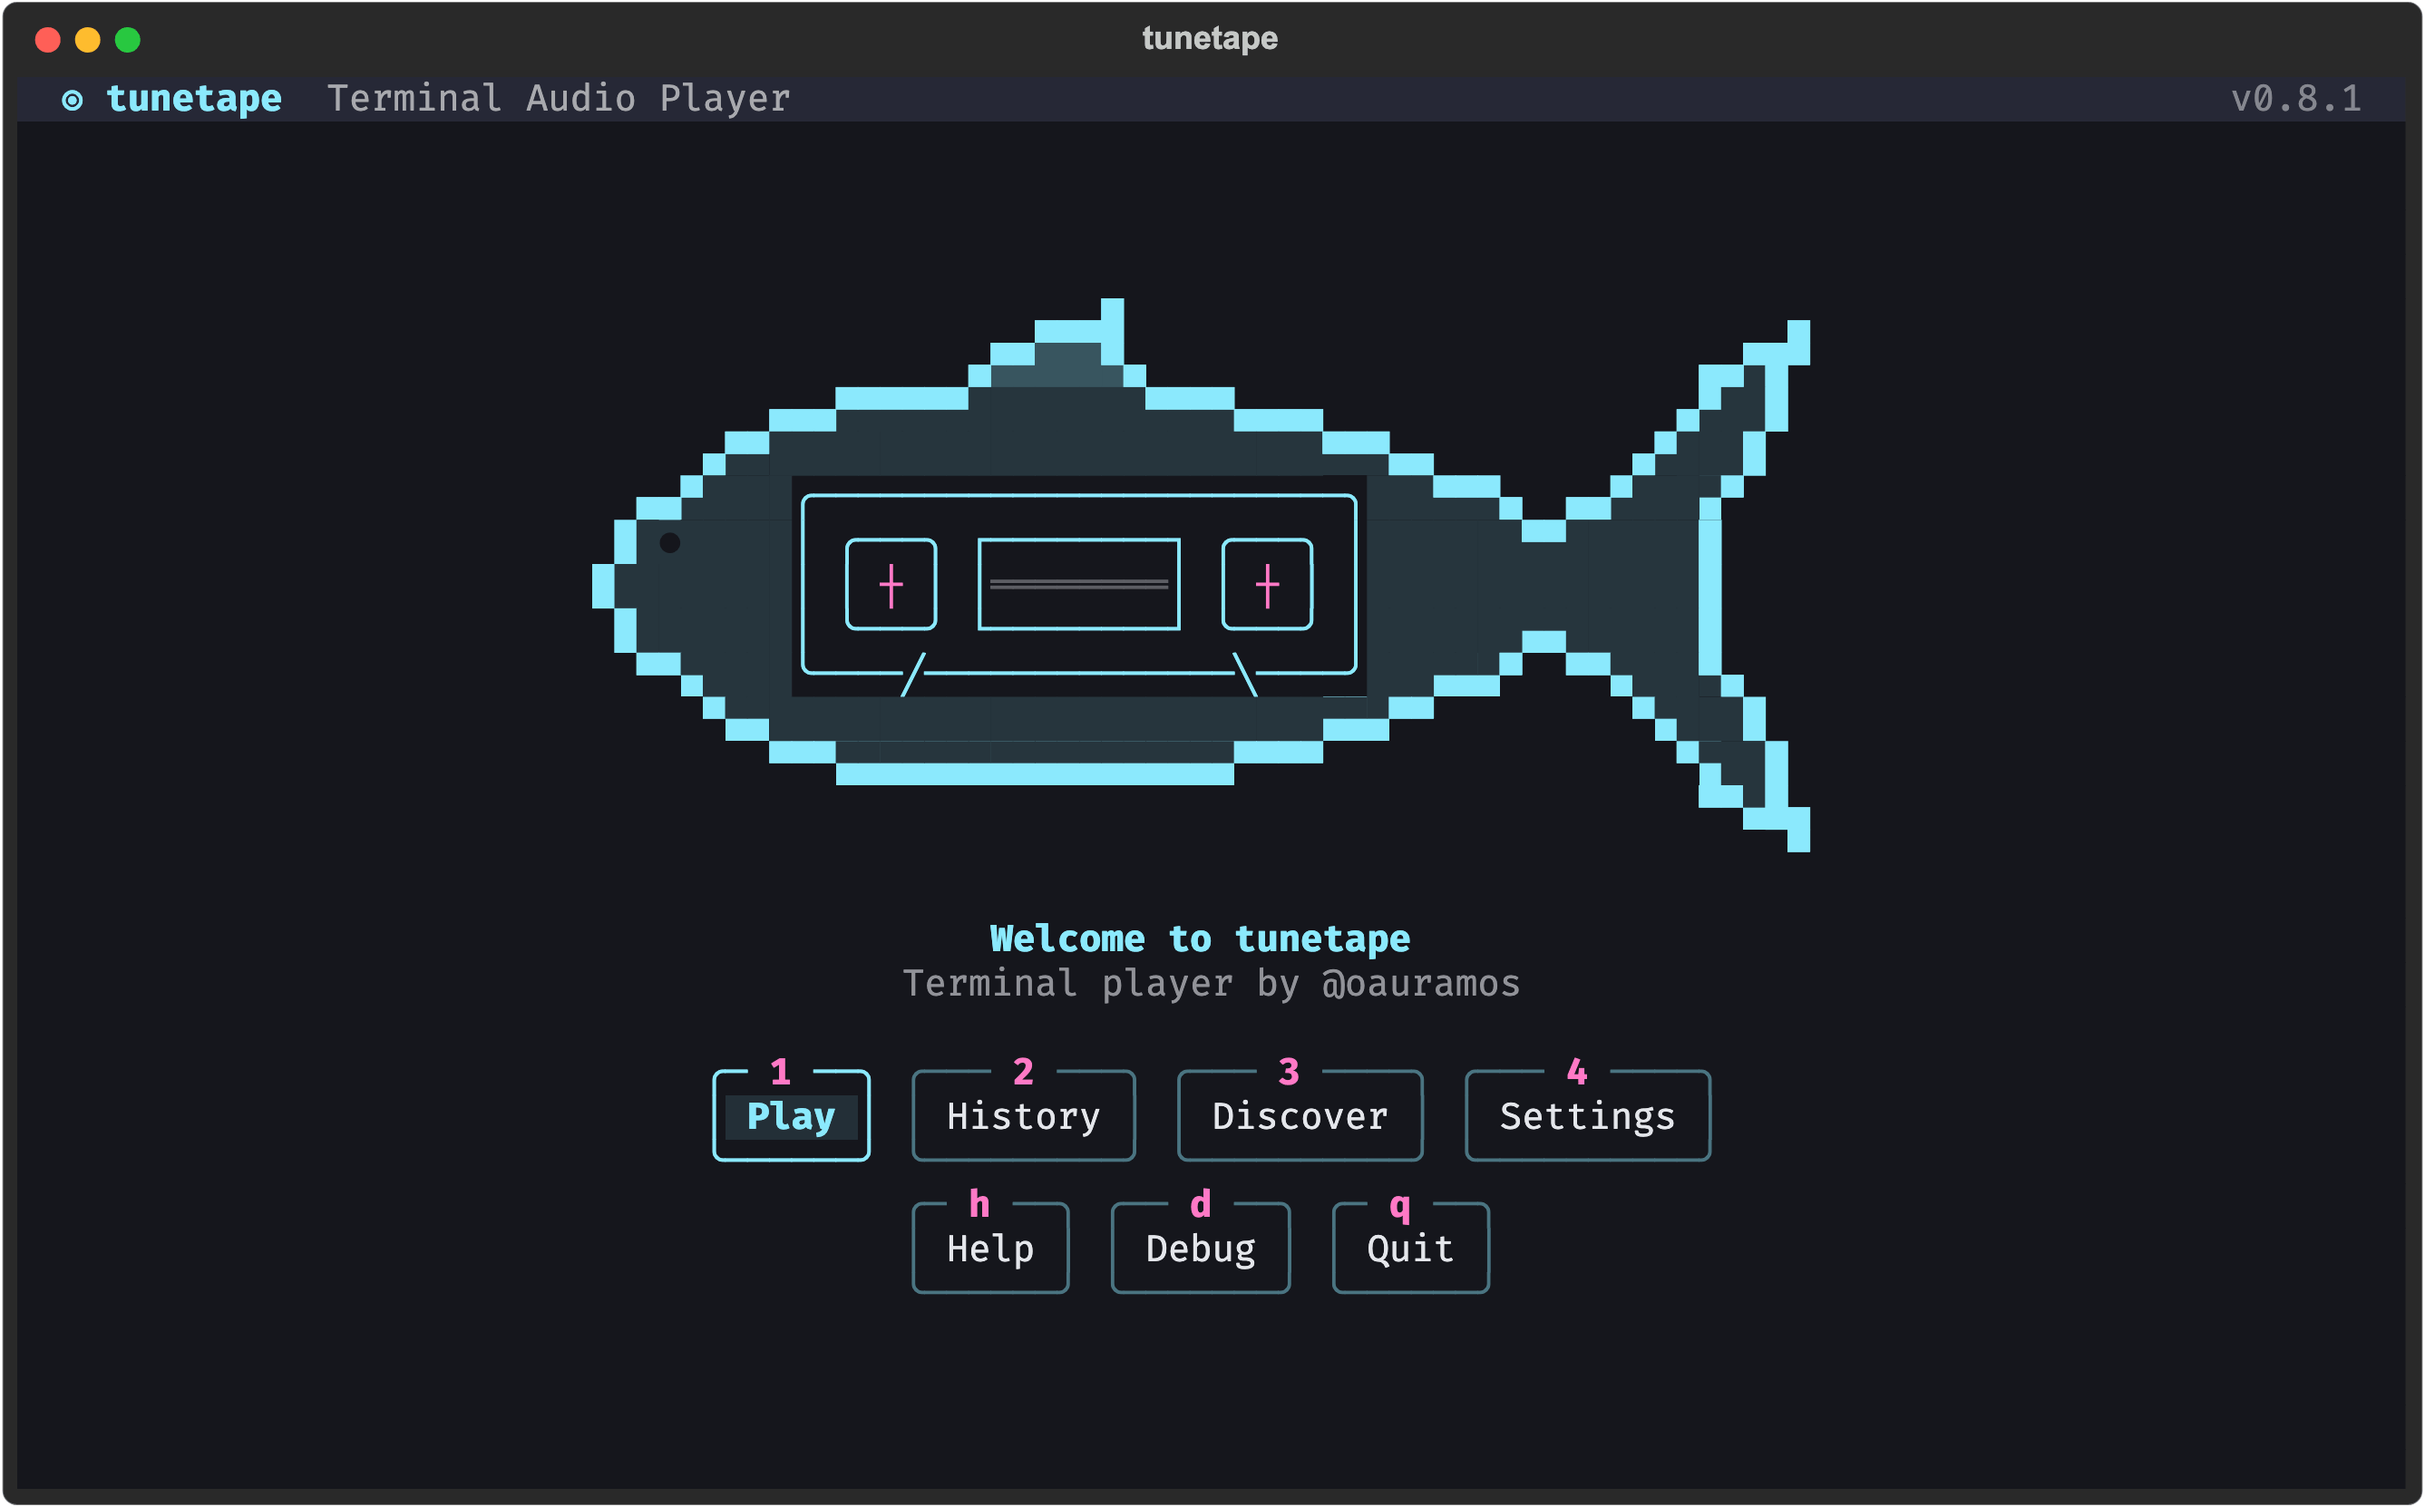
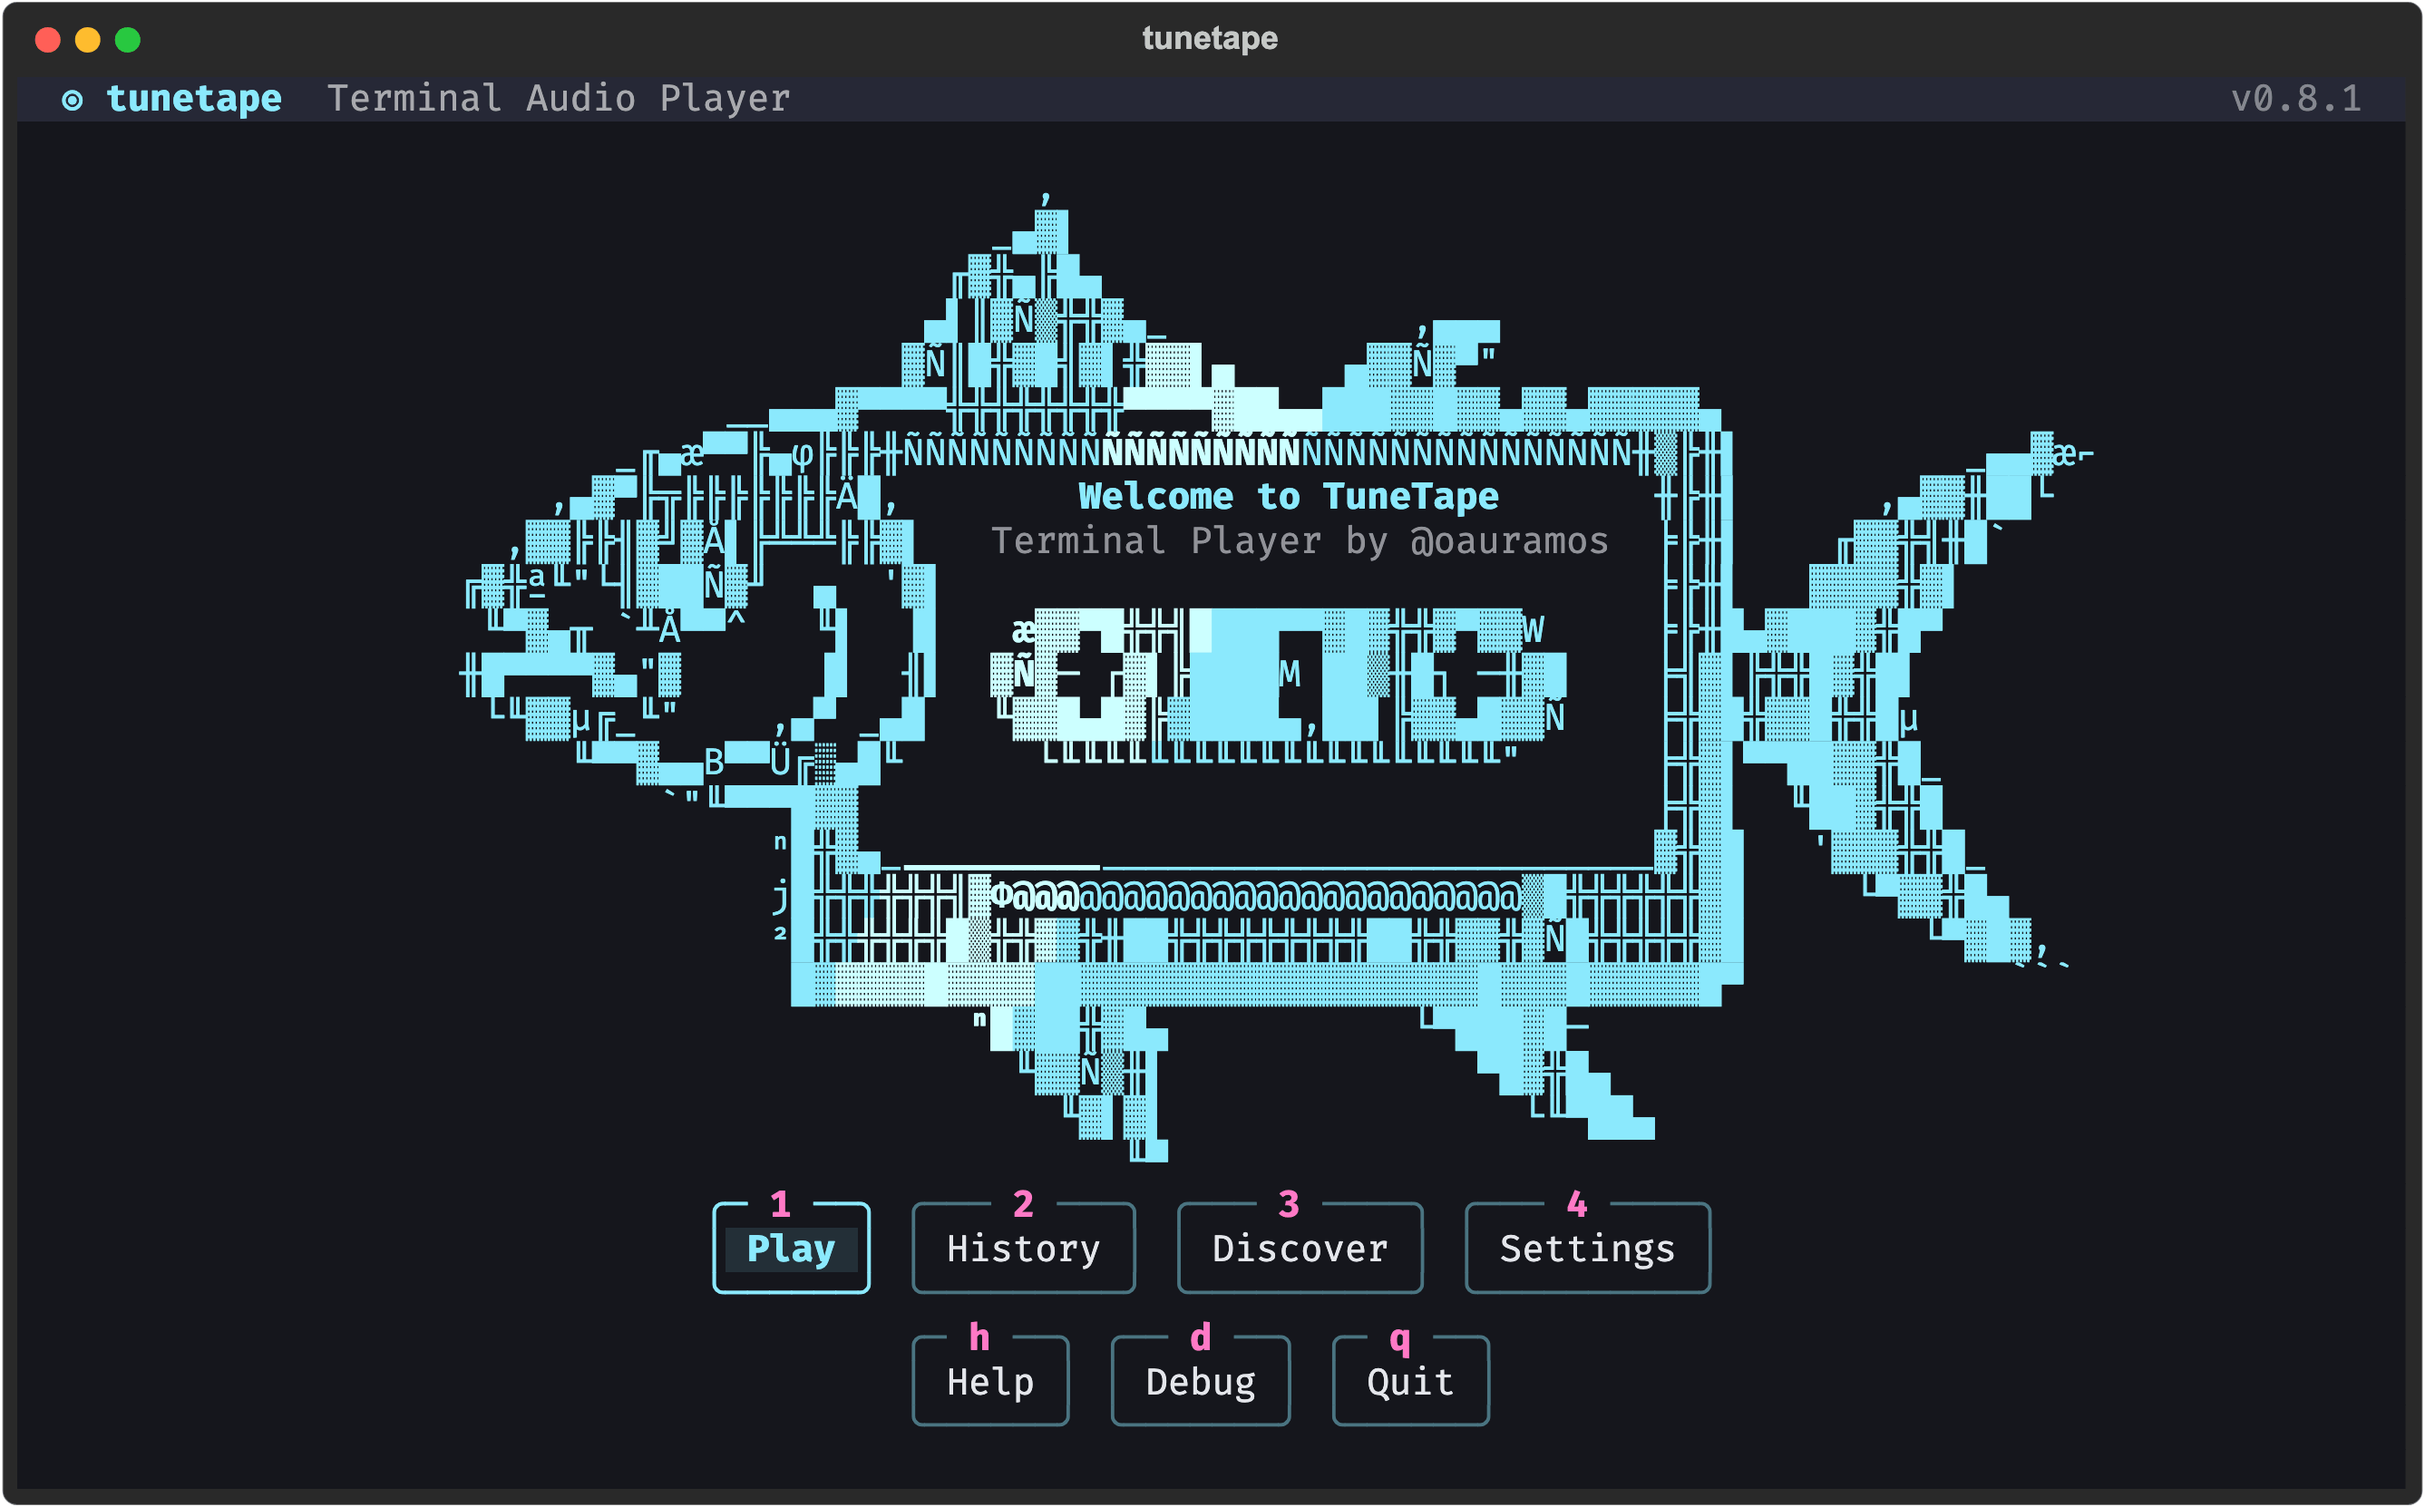
Greet with the original ASCII tuna on the welcome screen
The menu shows the hand-drawn ASCII tuna from the Rich interface again,
with "Welcome to TuneTape" in the cassette's label window and the diagonal
shine sweeping across it. It needs 85 x 30; smaller terminals keep the
pixel tuna with the title underneath (MenuScreen breakpoints pick which).
The pixel tuna stays on the player and loading screens.

Changed region(s): [[0.1862, 0.1227, 0.8691, 0.8592], [0.3725, 0.8899, 0.6208, 0.9513]]

diff --git a/tunetape/art.py b/tunetape/art.py
@@ -1,10 +1,14 @@
 """The tunetape look: the Textual theme and the tuna + tape mascot.
 
-tunetape = tuna + tape, so the mascot is a pixel-art tuna carrying a cassette.
-The fish is drawn two pixels per cell with half blocks; in the grids below "."
-is empty, "o" outline, "b" body and "f" fin. The grids are the source of truth
-and are edited by hand. The small tuna carries a shorter tape and stands in
-when the large one does not fit.
+tunetape = tuna + tape, so the mascot is a tuna carrying a cassette. It comes
+in two drawings:
+
+* the original hand-drawn ASCII tuna, which greets you on the welcome screen
+  when the terminal has room for it (81 x 23), and
+* a pixel-art tuna drawn two pixels per cell with half blocks, in a large and
+  a small size, used everywhere else and on small terminals. In its grids "."
+  is empty, "o" outline, "b" body and "f" fin. The grids are the source of
+  truth and are edited by hand.
 """
 
 from textual.content import Content
@@ -192,3 +196,80 @@ TUNA_ART = {
     "small": TunaArt(TUNA_SMALL, (3, 3), (3, 7), cassette_small),
     "cassette": CassetteArt(),
 }
+
+
+# --- the original ASCII tuna ------------------------------------------------
+
+ASCII_TUNA = (
+    '                                 ,\n'
+    '                               _▄▓▌\n'
+    '                             ╓▓╬▄╠█▄\n'
+    '                            ▄▌║▓Ñ▒╬╬▓▄_           ,▄▄▄\n'
+    '                           ▓Ñ║█╬▓█╣▓▌╬▓▓▌▄     ▄▓▓Ñ▓▀"\n'
+    '                   __▄▄▄▓▀▀▀▀╬╬╬╬╬╬╬╬▀▀▀▀▓██▄▄███▓▓█▓▓▄▓▓▄▓▓▓▓▓▄\n'
+    '              _╓▄æ▀▀╠▄φ╠╠╠╫ÑÑÑÑÑÑÑÑÑÑÑÑÑÑÑÑÑÑÑÑÑÑÑÑÑÑÑÑÑÑÑÑÑ╫▒╠╫▌          _▄▄▓æ⌐\n'
+    '           ,▄▓▀╠╦╠╠╠╠╠╠╠Ä█,                                  ╫╠╫▌      ,▄▓▓╫██└\n'
+    '         ,▓▓╠╠╢▓╝▓Å▌╠╩╩╩╠╠▓▌                                 ╞╠╫▌    ╓▓▓╬╣╫█`\n'
+    '       ╔▓╬ª╙"└╢▓██Ñ▓╜  ▄  \'▓▌                                ╞╠╫▌   ▓▓▓▓╬▓▌\n'
+    '        ╙▀▓▄╥ `╨Å▀▀^   ╙▌  ▐▌   æ▓▓▀█╬╬╣████▀▀▓█▓╬╬▓▀▓▓W     ╞╠╫█▄▓███▓╬█▀\n'
+    '       ╫█▀▀▀▀▓▄"▓      ▐▌  ╢▌  ▓Ñ▓─ ┌▓▌╠████M ██▒╫█┐ ─╫▓█    ╞╣▓▌╠╬╬█▓╬█▌\n'
+    '        └╙▓▓µ╔_╙"    ,▄▀ _▄█   ╙▓▓█▄█▓╠▓████▄,██▌╠▓▓▄█▓▓Ñ    ╞╬▓█╬▓▓█╬╬█µ\n'
+    '            ╙▀▀▓▄▄B▀▀Ü╔░▄█╙      └╙╙╙╙╙╙╙╙╙╙╙╙╙╙╙╙╙╙╙╙"      ╞╬▓▌▀▀██▓▓╬█_\n'
+    '                `"╙▀▀▀█▓▓                                    ╞╬▓▌  ╙██▓╬╬█\n'
+    '                     ⁿ█╬▓▄___________________________________▓╬▓█   \'▓▓▓╬╬█_\n'
+    '                     j█╬╬╬╬╬╬╣▓Φ@@@@@@@@@@@@@@@@@@@@@@@▒█╬╬╬╬╬╬▓█     └▀▓▓╬█▄\n'
+    '                     ²█╬╬╬╬╬╬█▒╬╬▓▓╬╫██╬╬╬╬╬╬╬╬╬██╬╬▓▓╬▓Ñ█╬╬╬╬╬▓█        └▀▓█▓,\n'
+    '                      █▓▓▓▓▓█▓▓▓▓██▓▓▓▓▓▓▓▓▓▓▓▓▓▓▓▓▓▓█▓▓▓█▓▓▓▓▓█▀            ```\n'
+    '                              ⁿ█▓██╬▓█▄           └▀███▓█─\n'
+    '                                ╙▓▓Ñ▒╫▌              ▀█▓╬█▄\n'
+    '                                  ╙▓▌▓▌                └╙▀██▄\n'
+    '                                     ╙▀\n'
+)
+
+# The cassette's dark label window: columns [28, 61) are blank on rows 7-8,
+# right below the top edge, exactly wide enough for the title and signature.
+_WINDOW = (28, 61)
+_TITLE = {
+    7: ("Welcome to TuneTape", "b $primary"),
+    8: ("Terminal Player by @oauramos", "$foreground 60%"),
+}
+# A soft shine that sweeps diagonally across the tuna, one band at a time.
+_SHINE_PERIOD = 120  # columns between sweeps
+_SHINE_BAND = 9      # width of the bright band
+_SHINE_SPEED = 3     # columns advanced per frame
+
+ASCII_LINES = ASCII_TUNA.rstrip("\n").split("\n")
+ASCII_WIDTH = max(len(line) for line in ASCII_LINES)
+ASCII_HEIGHT = len(ASCII_LINES)
+
+
+def _ascii_run(text: str, start: int, row: int, frame) -> Content:
+    """Art text styled per column, grouped into runs of the same style."""
+    parts = []
+    for col, char in enumerate(text, start):
+        lit = frame is not None and (col + row - frame * _SHINE_SPEED) % _SHINE_PERIOD < _SHINE_BAND
+        style = "b $primary-lighten-3" if lit else "$primary"
+        if parts and parts[-1][1] == style:
+            parts[-1][0] += char
+        else:
+            parts.append([char, style])
+    return Content.assemble(*(tuple(p) for p in parts))
+
+
+def ascii_tuna(frame: int = None) -> Content:
+    """The ASCII tuna with the title in its window; ``frame`` animates the shine."""
+    start, end = _WINDOW
+    lines = []
+    for row, line in enumerate(ASCII_LINES):
+        if row in _TITLE:
+            text, style = _TITLE[row]
+            content = Content.assemble(
+                _ascii_run(line[:start], 0, row, frame),
+                (text.center(end - start), style),
+                _ascii_run(line[end:], end, row, frame),
+            )
+        else:
+            content = _ascii_run(line, 0, row, frame)
+        # Pad to a block so centring the art never shifts one line against another.
+        lines.append(content.pad_right(ASCII_WIDTH - content.cell_length))
+    return Content("\n").join(lines)

diff --git a/tunetape/screens.py b/tunetape/screens.py
@@ -15,7 +15,8 @@ from textual.screen import ModalScreen, Screen
 from textual.widgets import Input, OptionList, Static
 
 from tunetape import __version__
-from tunetape.widgets import Cap, KeyCaps, TopBar, Tuna
+from tunetape.art import ASCII_HEIGHT, ASCII_WIDTH
+from tunetape.widgets import AsciiTuna, Cap, KeyCaps, TopBar, Tuna
 
 QUIT = Cap("q", "quit", "app.quit_session")
 BACK = Cap("esc", "back", "back")
@@ -68,9 +69,17 @@ MENU_CAPS = [
 
 
 class MenuScreen(FlowScreen):
-    """The tuna, a welcome, and the menu buttons. Answers '1'-'4', 'h', 'd' or 'q'."""
+    """The tuna, a welcome, and the menu buttons. Answers '1'-'4', 'h', 'd' or 'q'.
+
+    With room for it (the art, the top bar and two rows of boxed caps) the
+    welcome is the original ASCII tuna with the title inside; smaller
+    terminals get the pixel tuna and the title underneath.
+    """
 
     QUIT_RESULT = "q"
+    # ui.CSS shows the ASCII tuna only when both classes below say it fits.
+    HORIZONTAL_BREAKPOINTS = [(0, "-pixel-width"), (ASCII_WIDTH + 4, "-ascii-width")]
+    VERTICAL_BREAKPOINTS = [(0, "-pixel-height"), (1 + ASCII_HEIGHT + 6, "-ascii-height")]
     BINDINGS = [
         Binding("1", "pick('1')", show=False),
         Binding("2", "pick('2')", show=False),
@@ -85,9 +94,10 @@ class MenuScreen(FlowScreen):
         version = Content.from_markup("[$foreground 50%]v$v[/]", v=__version__)
         yield TopBar(right=version)
         with Vertical(id="home"):
+            yield AsciiTuna(id="ascii-tuna")
             yield Tuna(shine=True)
             yield Static(Content.from_markup(
-                "[b $primary]Welcome to tunetape[/]\n[$foreground 60%]Terminal player by @oauramos[/]"
+                "[b $primary]Welcome to TuneTape[/]\n[$foreground 60%]Terminal Player by @oauramos[/]"
             ), id="welcome")
             yield KeyCaps(MENU_CAPS, navigable=True, flat_below=22, id="menu-caps")
 

diff --git a/tunetape/widgets.py b/tunetape/widgets.py
@@ -11,7 +11,7 @@ from textual.reactive import reactive
 from textual.widget import Widget
 from textual.widgets import Static
 
-from tunetape.art import TUNA_ART
+from tunetape.art import TUNA_ART, ascii_tuna
 
 
 class Tuna(Widget):
@@ -71,6 +71,26 @@ class Tuna(Widget):
             period = art.width + 2 * art.height + 60
             shine = (self.frame * 2) % period - 2 * art.height
         return art.render(self._reel, shine)
+
+
+class AsciiTuna(Widget):
+    """The original hand-drawn tuna, with a shine sweeping across it."""
+
+    DEFAULT_CSS = """
+    AsciiTuna { width: 1fr; height: auto; content-align: center top; }
+    """
+
+    frame = reactive(0)
+
+    def on_mount(self) -> None:
+        self.set_interval(1 / 15, self._advance)
+
+    def _advance(self) -> None:
+        if self.display:
+            self.frame += 1
+
+    def render(self) -> Content:
+        return ascii_tuna(self.frame)
 
 
 class Cap(NamedTuple):

diff --git a/tests/test_tui.py b/tests/test_tui.py
@@ -355,6 +355,22 @@ def test_menu(names, result):
     assert drive(ui.main_menu, keys(*names, wait_for="MenuScreen"))[0] == result
 
 
+@pytest.mark.parametrize("size, ascii", [((108, 30), True), ((85, 30), True),
+                                         ((108, 29), False), ((60, 24), False)])
+def test_menu_shows_the_ascii_tuna_when_it_fits(size, ascii):
+    seen = {}
+
+    async def script(pilot, app):
+        await until(pilot, on(app, "MenuScreen"))
+        await pilot.pause(0.1)
+        seen["ascii"] = app.screen.query_one("#ascii-tuna").display
+        seen["pixel"] = app.screen.query_one(Tuna).display
+        seen["welcome"] = app.screen.query_one("#welcome").display
+
+    drive(ui.main_menu, script, size)
+    assert seen == {"ascii": ascii, "pixel": not ascii, "welcome": not ascii}
+
+
 def test_menu_click():
     async def script(pilot, app):
         await until(pilot, on(app, "MenuScreen"))

diff --git a/tests/test_art_debug.py b/tests/test_art_debug.py
@@ -15,6 +15,16 @@ def test_tuna_art_sizes_match_their_render():
         assert {len(line) for line in lines} == {drawing.width}, name
 
 
+def test_ascii_tuna_keeps_its_shape_with_the_title():
+    lines = art.ascii_tuna(4).plain.split("\n")
+    assert len(lines) == art.ASCII_HEIGHT
+    assert {len(line) for line in lines} == {art.ASCII_WIDTH}
+    assert "Welcome to TuneTape" in lines[7]
+    # Outside the label window the art is untouched.
+    assert lines[7][:28] == art.ASCII_LINES[7][:28]
+    assert lines[7][61:].rstrip() == art.ASCII_LINES[7][61:].rstrip()
+
+
 def test_reels_turn_between_frames():
     tuna = art.TUNA_ART["small"]
     assert tuna.render(0).plain != tuna.render(1).plain

diff --git a/tunetape/ui.py b/tunetape/ui.py
@@ -86,6 +86,10 @@ Screen.-compact .card { padding: 0 1; }
 /* --- menu and waiting -------------------------------------------------- */
 #home, #busy { height: 1fr; align: center middle; padding: 0 2; }
 #welcome { width: 1fr; text-align: center; margin-bottom: 1; }
+#ascii-tuna { display: none; }
+MenuScreen.-ascii-width.-ascii-height #ascii-tuna { display: block; }
+MenuScreen.-ascii-width.-ascii-height Tuna,
+MenuScreen.-ascii-width.-ascii-height #welcome { display: none; }
 #busy-line, #busy-detail { width: 1fr; text-align: center; }
 
 /* --- modals ------------------------------------------------------------ */
